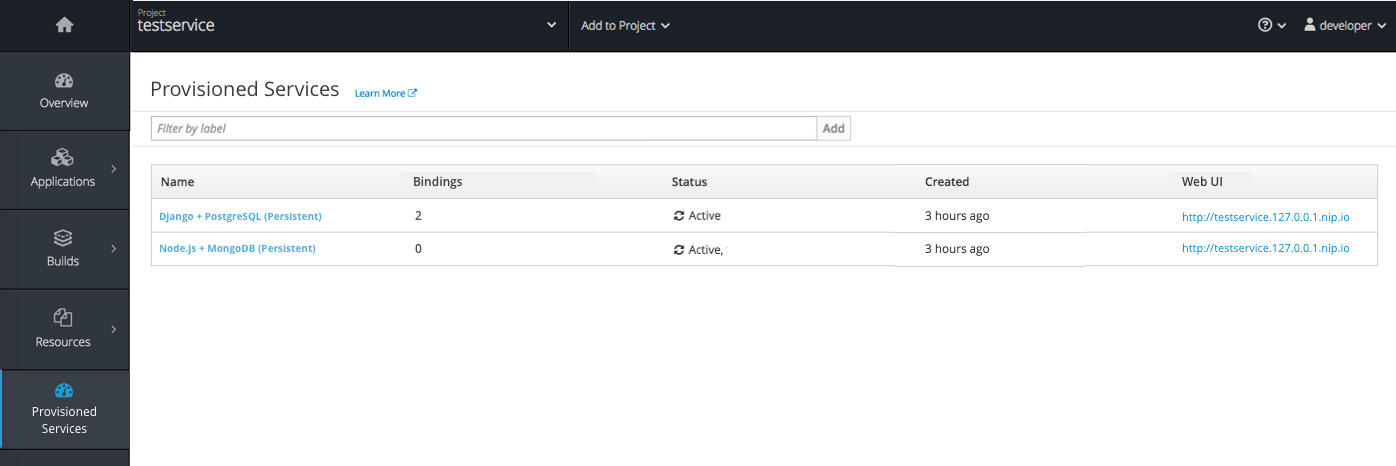
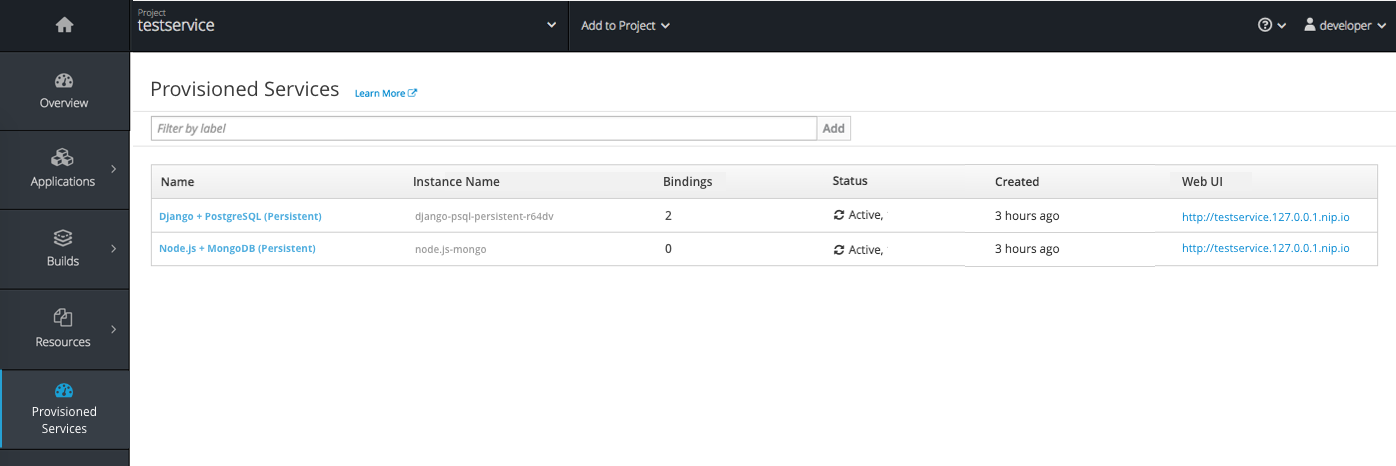
Adding Instance Name to Landing Page and Details Page

diff --git a/web-console/3-project-details/provisioned-service-details.md b/web-console/3-project-details/provisioned-service-details.md
@@ -9,7 +9,7 @@
 - **Note:** The icon for Provisioned Services is TBD and screenshots currently include a placeholder icon that will not be used.
 - There will be a landing page for a list of all Provisioned Services, where users can select from the list of Names to enter into the Details view of a particular provisioned service. will Selecting the a provisioned service from the
 - The standard landing page filter should be available at the top of the table.
-- The columns included are the Instance Name (link to details page), number of bindings, status, created date/time, and the Web Interface URL.
+- The columns included are the name (link to details page), instance name, number of bindings, status, created date/time, and the Web Interface URL.
 
 ![template](img/v2-03.png)
 - Users can also jump directly to a specific provisioned service by clicking on the link available in the list view on the Project Overview.
@@ -17,7 +17,7 @@
 
 ## Details Page
 ![template](img/v2-04.png)
-- The top of the provisioned service details page should have the standard breadcrumbs, large service name, and any tags that correspond to the service.
+- The top of the provisioned service details page should have the standard breadcrumbs, large service name and smaller instance name in grey, as well as any tags that correspond to the service below the name.
 - The tabs available will be Details, Events, and Status.
 - On the Details tab, sections will include:
   1. Plan: Display the name of the plan followed by any description and feature information below.
